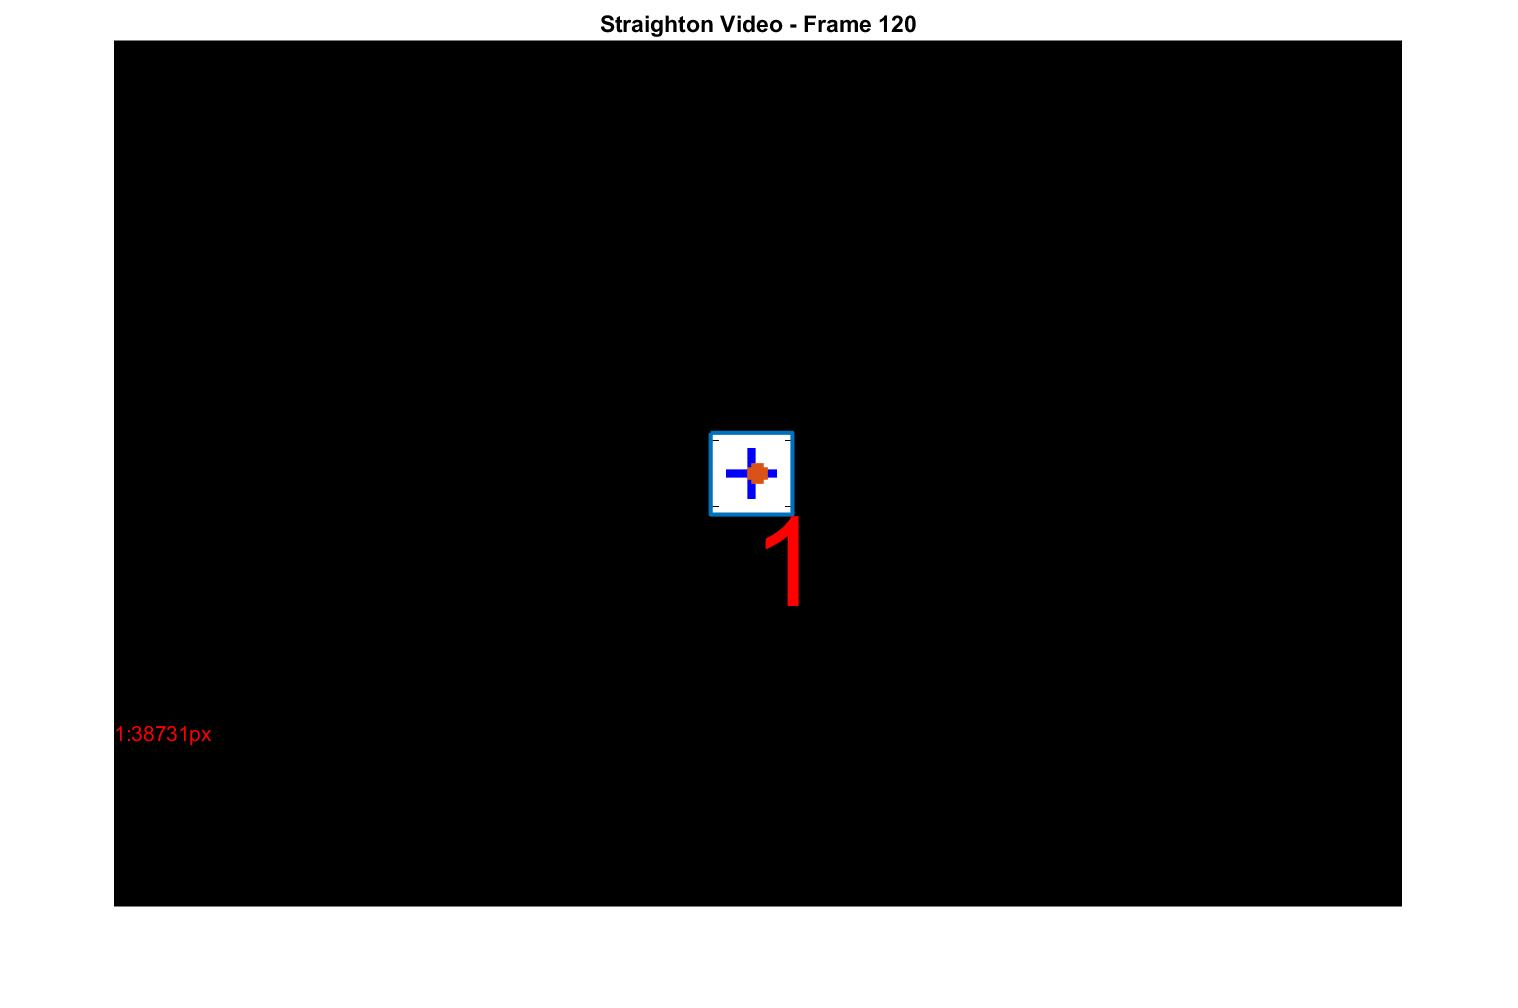
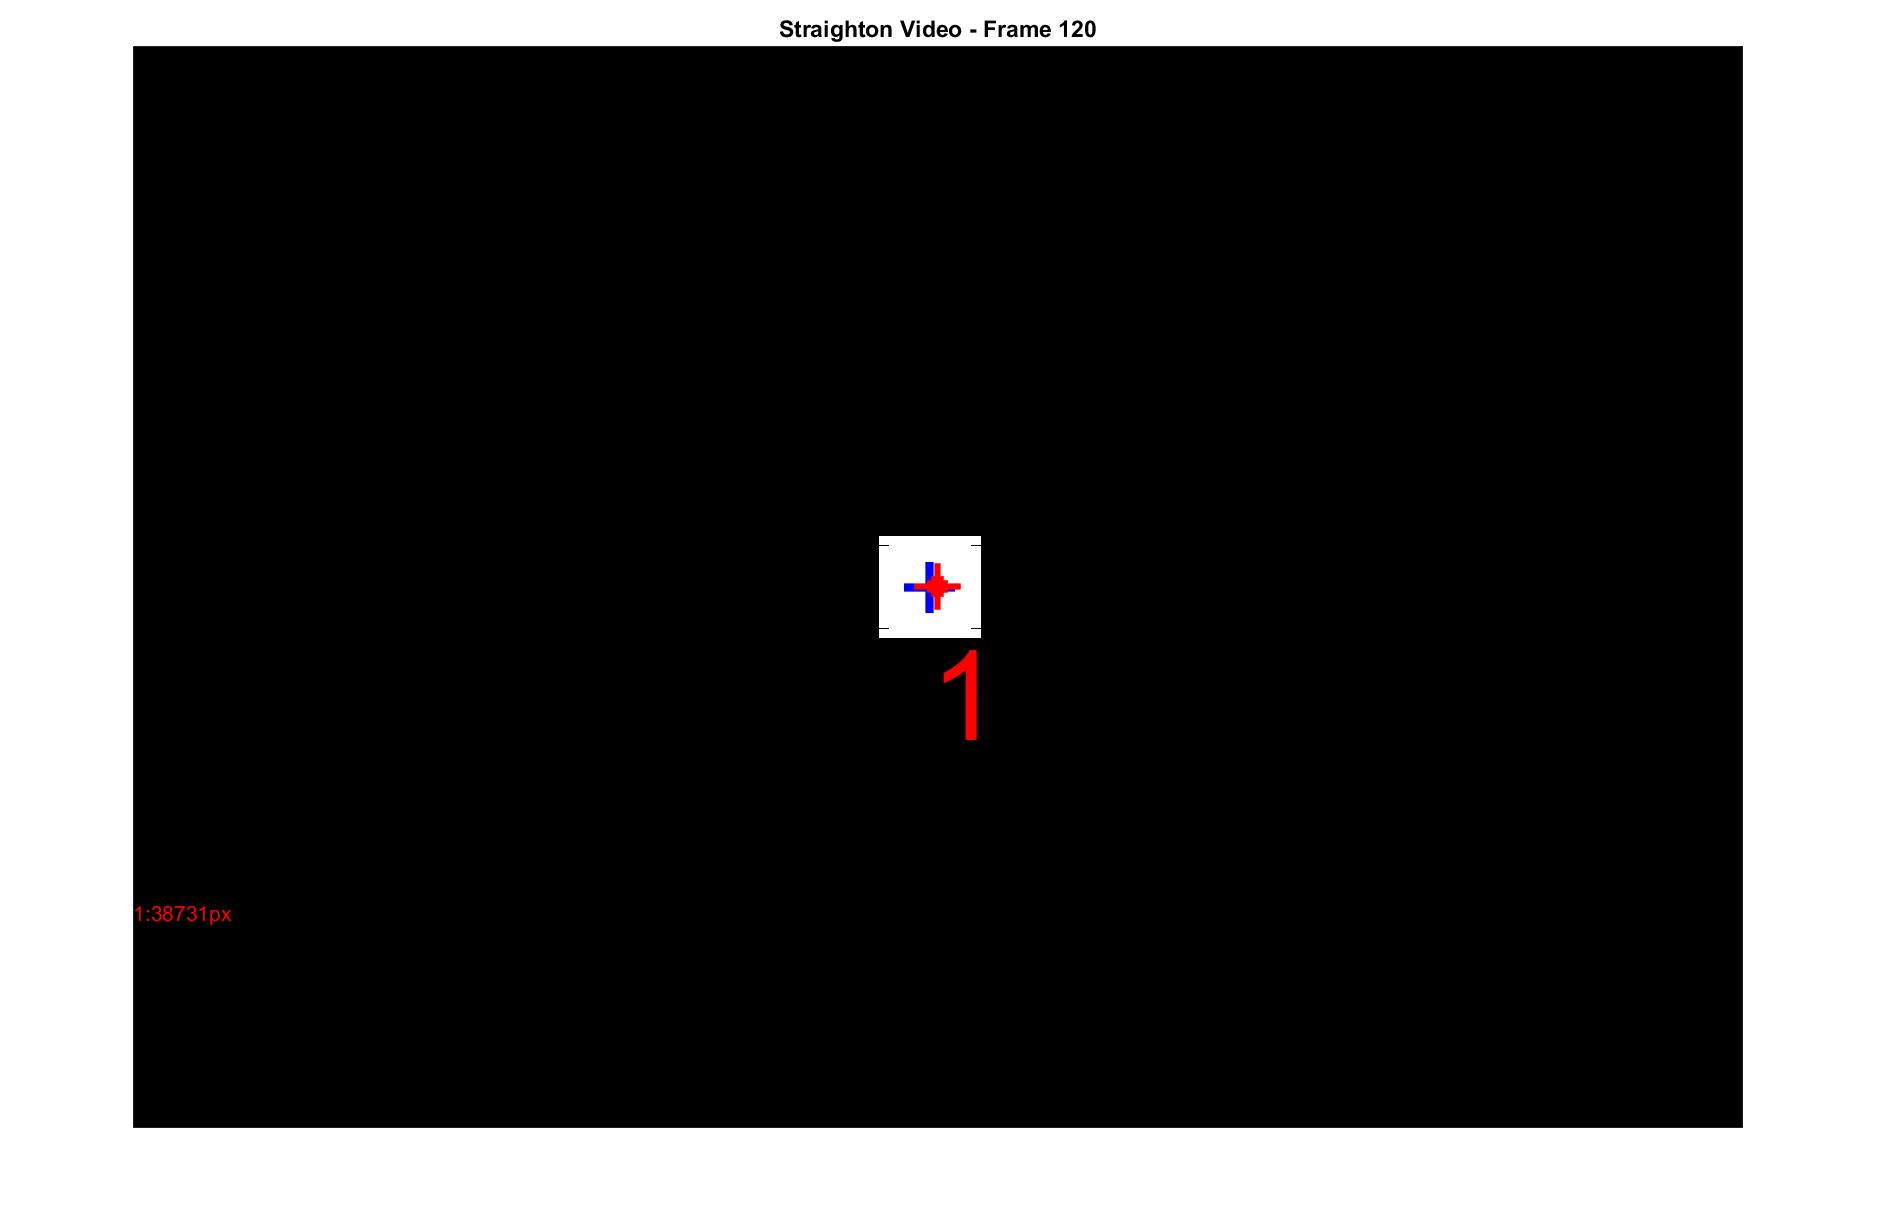
Centroid error stuff

Changed region(s): [[0.0619, 0.0, 0.9289, 0.9226], [0.4644, 0.3998, 0.5264, 0.6151]]

diff --git a/3-Optical/errorAnalysis.m b/3-Optical/errorAnalysis.m
@@ -1,10 +1,8 @@
-function distanceError = errorAnalysis(centroid,centerpoint,boundary)
+function distanceError = errorAnalysis(centroid,centerpoint,boundary,depth)
 %%%% CubeSat horizontal dimension is 10cm, this will be used to determine
 %%%% the length of a single pixel
-boundaryLength = boundary(2,1)-boundary(2,2)+1;
-CubeSatLength = 10; %10cm
-% Length of a single pixel for current image (cm)
-pixelSize = CubeSatLength/boundaryLength;
+[pixelsize,cubesatLength] = CameraFOV(centerpoint(1)*2,centerpoint(2)*2,depth);
+scatter(centerpoint(1),centerpoint(2),500,'r','+','LineWidth',3);
 pixelerror = norm(centroid-centerpoint);
-distanceError = pixelerror*pixelSize;
+distanceError = pixelerror*pixelsize;
 end

diff --git a/3-Optical/CameraFOV.m b/3-Optical/CameraFOV.m
@@ -1,18 +1,12 @@
-function CameraFOV(nx,ny)
+function [pixel50,CubeSide] = CameraFOV(nx,ny,distance)
 %Optical Camera Parameters: 
 %Inputs: Pixel size x, pixel size y, number pixels x, number pixels y,
 %desired FOV, 
 
 %outputs: angular resolution (deg/pixel), focal length
 % Projection size of CubeSat.
-
-clear
 PSizeX=5.5e-3; %mm
 PSizeY=5.5e-3;
-
-nx=2048;
-ny=2048;
-
 FOV=19.5;%desired FOV
 
 SSizeX=PSizeX*nx;%sensor Size
@@ -28,6 +22,6 @@ AnglRez=FOV/nx;
 angRad=deg2rad(AnglRez);
 %50 meter radius
 %each pixel is
-pixel50=(50*angRad)*100;%cm per pixel
+pixel50=(50*angRad)*distance;%cm per pixel
 CubeSide=10/pixel50;%10 cm edge is this many pixels
 end

diff --git a/3-Optical/FindCentroid_Video.m b/3-Optical/FindCentroid_Video.m
@@ -18,6 +18,7 @@ I_gray = rgb2gray(I);
 binaryTolerance = 0.3;
 I_binarized = imbinarize(I_gray,binaryTolerance);
 imshow(I_binarized)
+hold on
 [I_boundaries,~,~,~] = bwboundaries(I_binarized);
 
 %%%%% Find the largest boundaries (the cubesats)
@@ -48,7 +49,8 @@ for j=1:length(objects)
 end
 [object_pixels,image_cropped] = FindCubeSatPixels(objects,I_binarized);
 
-distanceError = errorAnalysis(centroid,centerpoint,boundingRectangle);
+distanceError = errorAnalysis(centroid,centerpoint,boundingRectangle,...
+    framecount/30);
 
 if plotGrayscale == 1
     for j = 1:length(object_pixels)

diff --git a/3-Optical/EdgeOutlineDetection_Video.m b/3-Optical/EdgeOutlineDetection_Video.m
@@ -12,7 +12,16 @@ videoFile = 'Videos/vantagecamstraighttraj.mp4';
 videoType = 'StraightOn';
 video = VideoReader(videoFile);
 
-grabFrames(video);
+distanceError = grabFrames(video);
+
+DR6_1 = ones(100,1)*10;
+
+figure
+plot(DR6_1)
+hold on
+plot(distanceError)
+
+
 
 %Preallocate array to store number of pixels for the cubesat+s in each image
 %{

diff --git a/3-Optical/grabFrames.m b/3-Optical/grabFrames.m
@@ -1,6 +1,6 @@
-function grabFrames(video)
+function distanceError = grabFrames(video)
 %%% Options to plot grayscale centroid and binarized images
-plotGrayscale = 1;
+plotGrayscale = 0;
 plotBinarized = 0;
 i = 1;
 distanceError = [];
